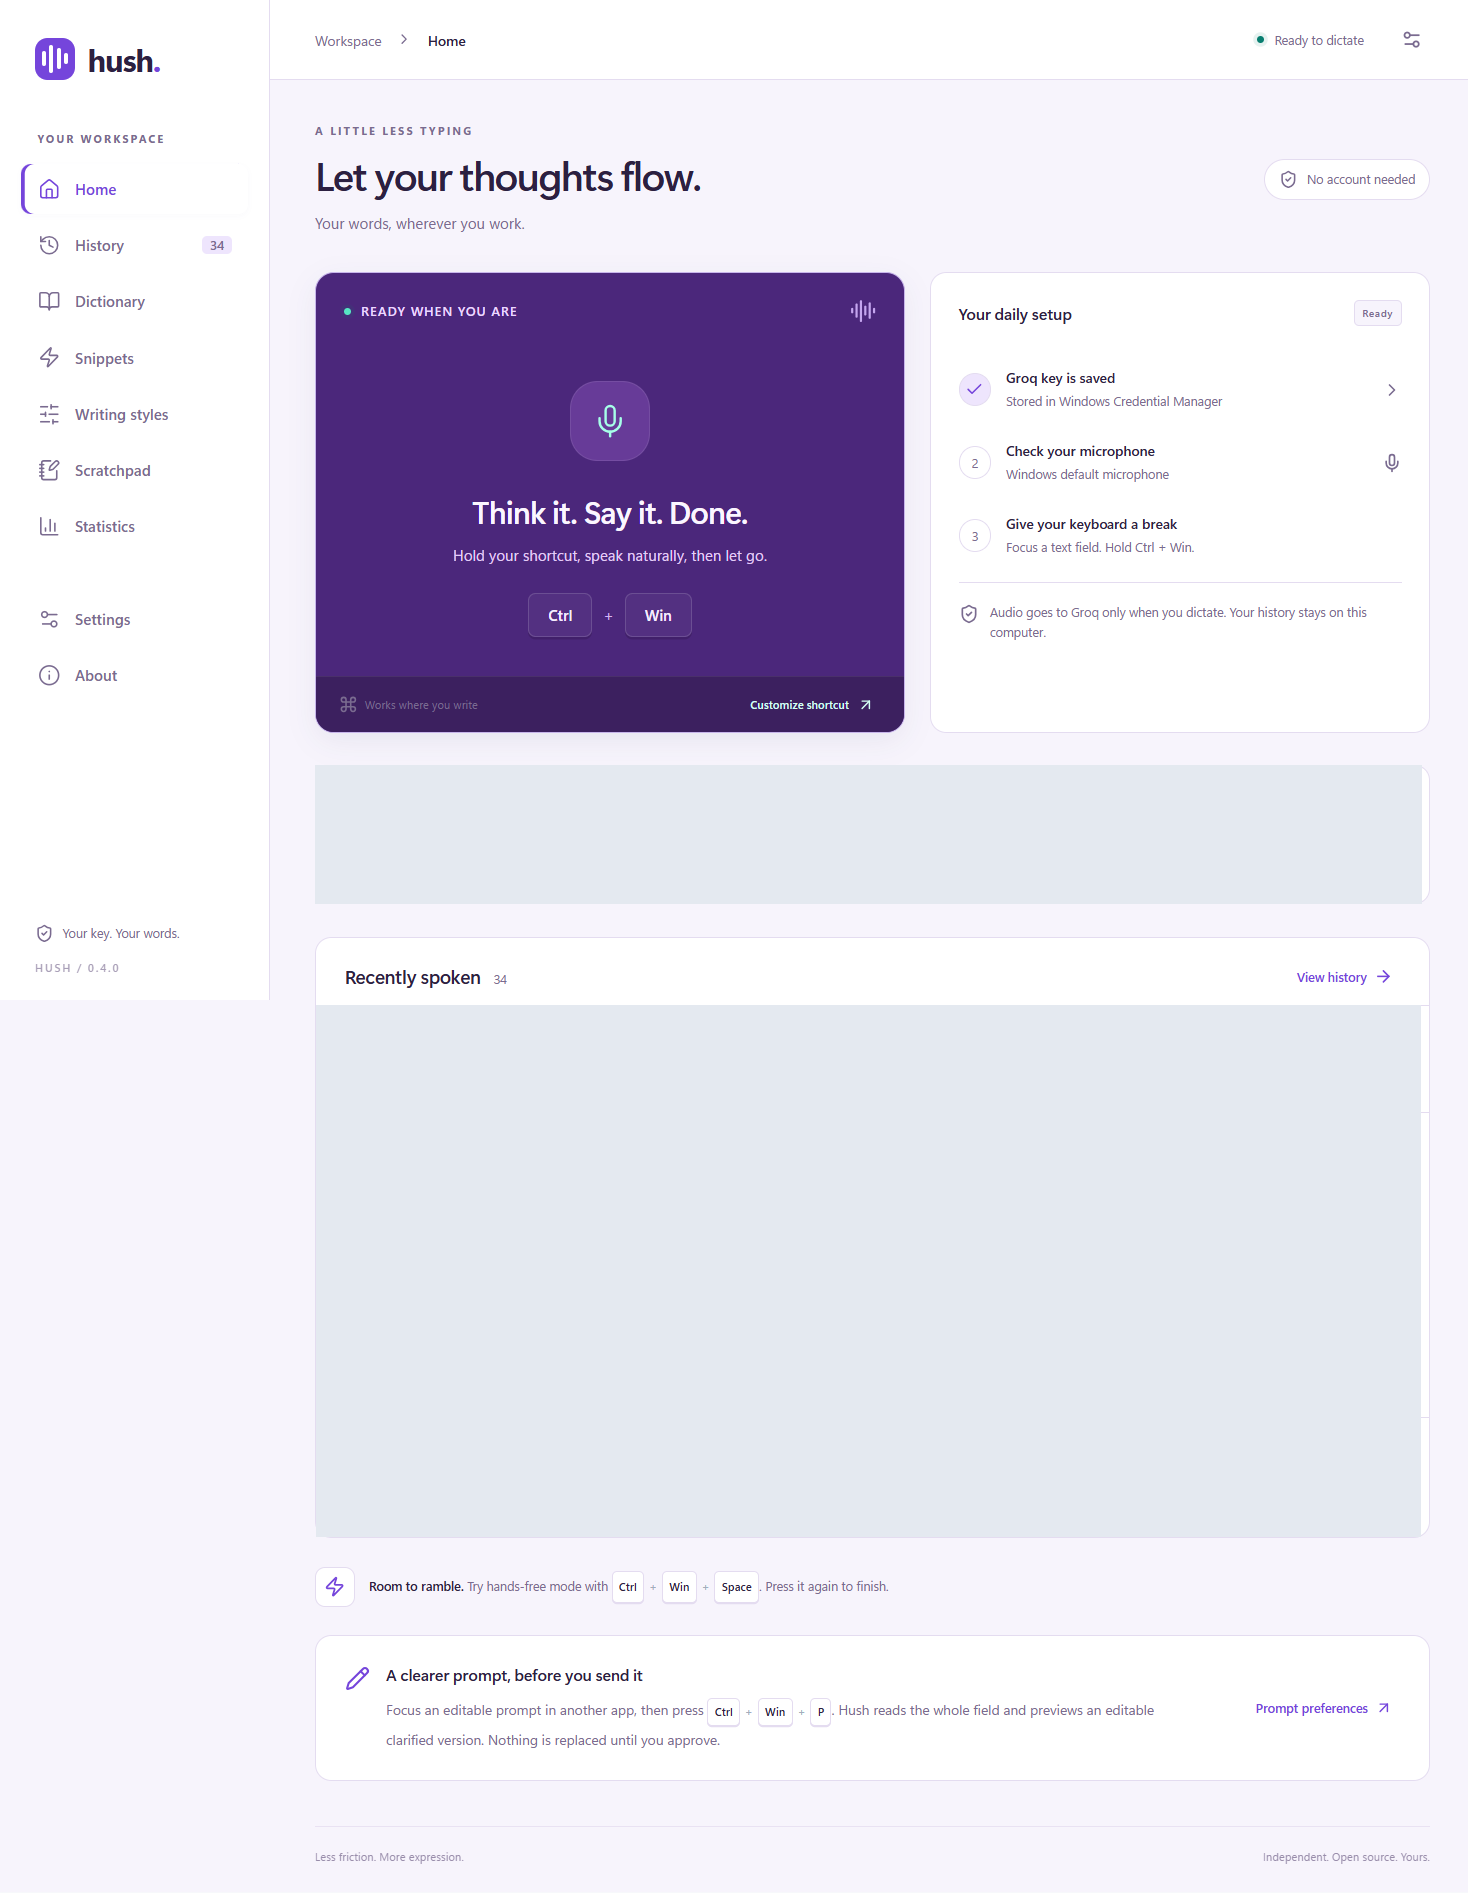
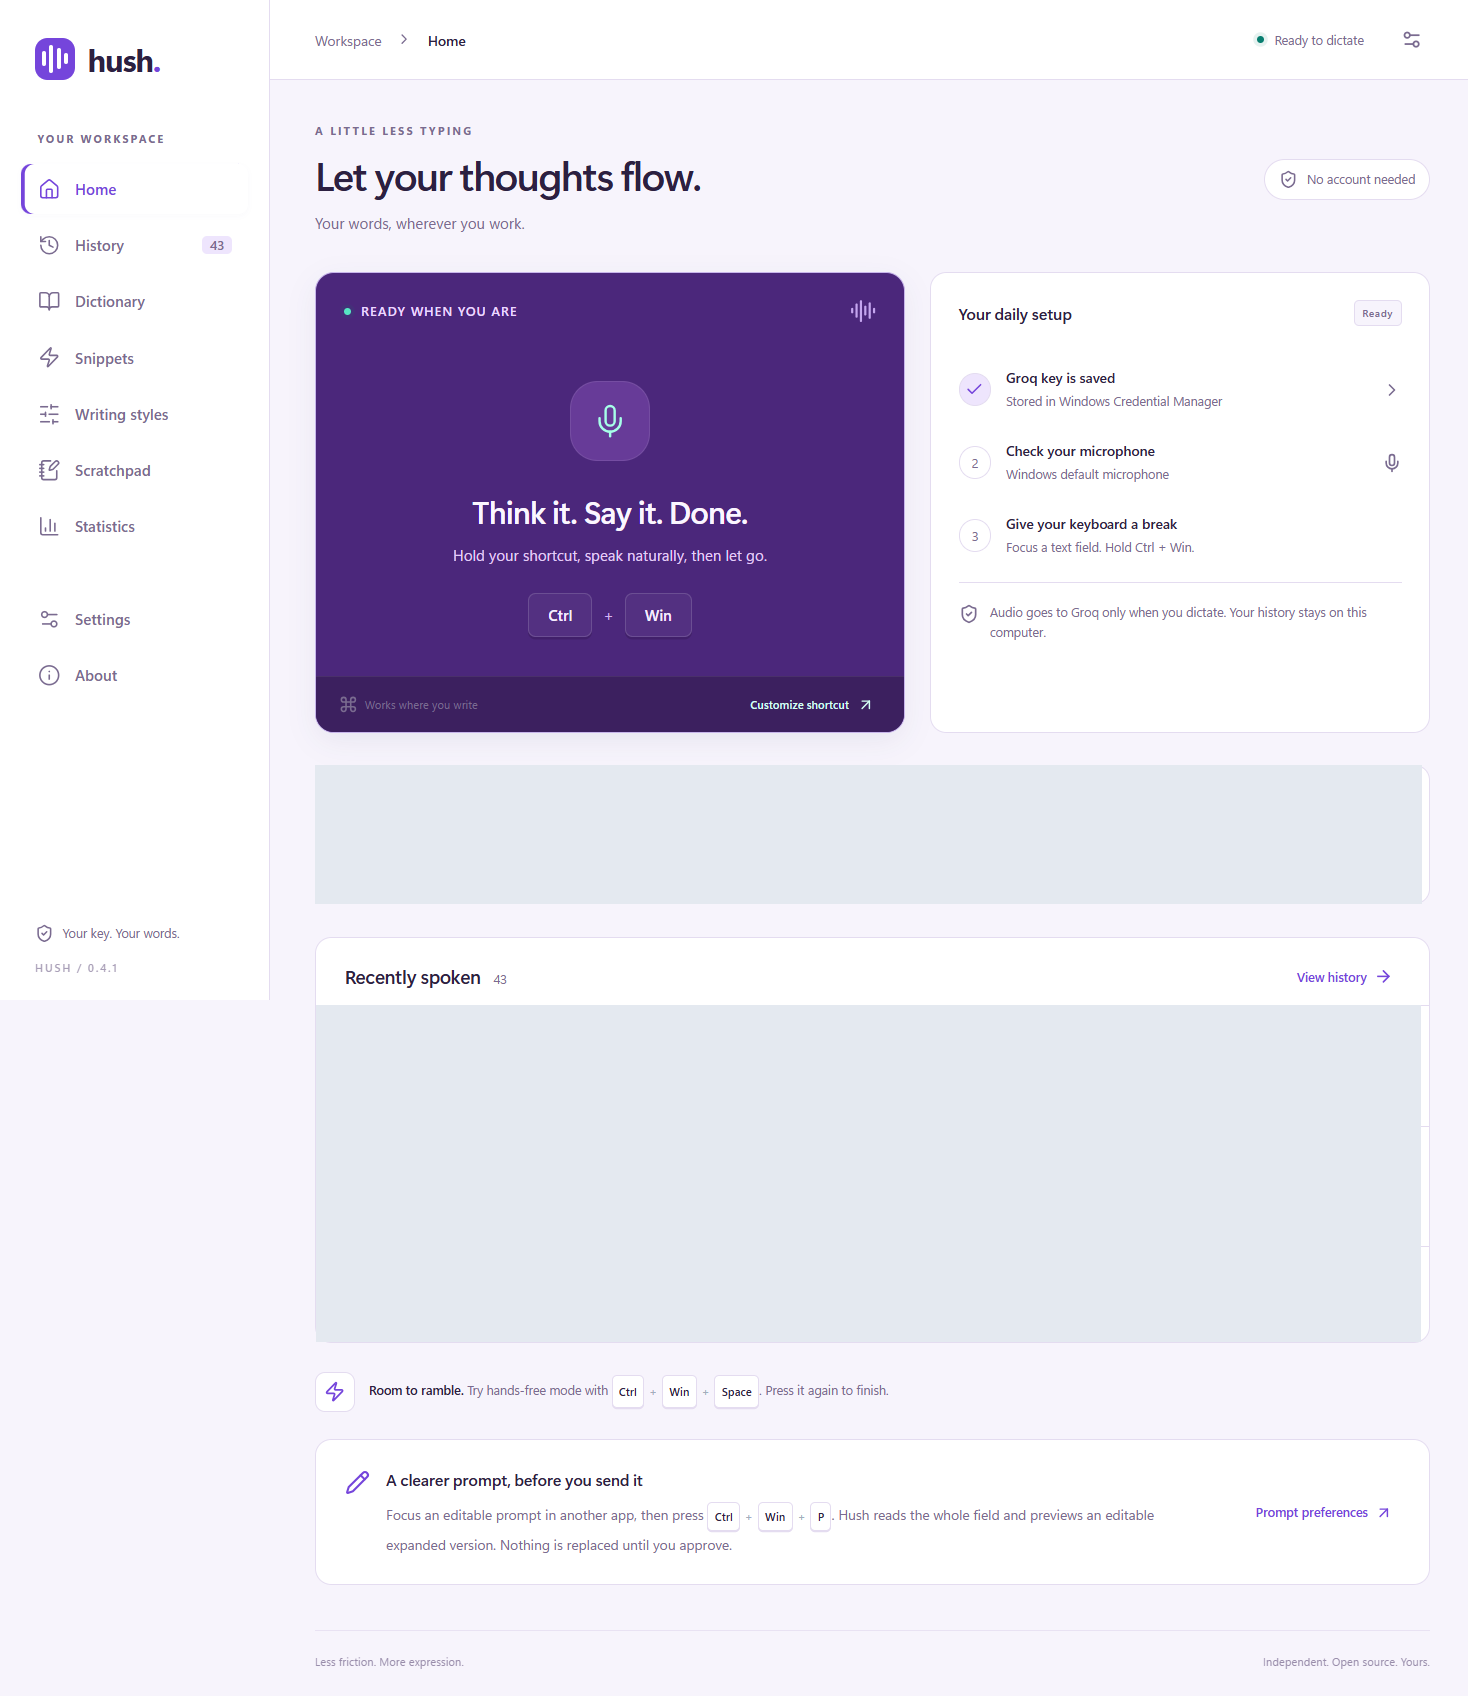
docs: record verified clipboard publication fix and 0.4.1 packages [skip ci]

diff --git a/docs/QA.md b/docs/QA.md
@@ -4,7 +4,9 @@
 
 The side timer shared a left-aligned drawing helper with the bottom layout. It now uses centered text inside the side timer bounds. Paste invalidation also counted accessibility focus events from unrelated background windows; those are now filtered by the foreground root. Clipboard sequence is captured after publication closes, with an additional owner check before paste/restoration. Protected-field, original field/caret identity, user-input, cancellation and terminal safeguards remain in place.
 
-Focused checks passed: 21 native unit tests (6 interactive tests explicitly ignored), all-target Clippy with warnings denied, frontend compilation/build and 10 frontend tests. Full-suite, packaged and hosted results will be recorded after execution. These unit checks do not establish successful insertion in every application.
+Checks passed: 96 Rust tests (16 interactive/device/provider tests explicitly ignored), all-target Clippy with warnings denied, frontend compilation/build and 10 frontend tests. Real native overlay nonactivation, compact controls and side-timer pixels passed and were inspected. A guarded real Windows clipboard probe measured sequence 5428 before CloseClipboard and 5431 afterward, reproducing why the old pre-close equality check rejected Hush's own publication. The original eight supported clipboard formats were restored; no clipboard contents were logged. Newer-copy ownership/sequence guards and background-focus filtering have regression coverage.
+
+The packaged native runtime passed the existing settings, microphone cancellation/normal Stop, rapid startup retry, saved-key preservation and dashboard close/reopen checks. Hosted Windows CI passed for `64627fd`, including all frontend/browser/Rust checks, real offline speech, installer and portable packaging: [run](https://github.com/chahatesh/Hushline/actions/runs/39701385137). The clipboard handoff is reproduced and corrected, but uninterrupted live Groq-to-Notepad/browser acceptance and broad application compatibility remain unverified. No public Release is published. [Component evidence](verification/update-0.4.1.json), [packaged checks](verification/desktop-smoke-0.4.1.json), [hosted checks](verification/ci-0.4.1.json).
 
 ## 0.4.0 current verification
 
@@ -220,3 +222,5 @@ Hosted Windows CI passed for implementation commit `392b3b9`, including formatti
 The optimized **7,947,264-byte** executable and **2,871,792-byte** installer built successfully, and the portable ZIP was generated. The packaged app passed real native IPC checks for all three styles and AI frequencies, preparation/cue and prompt-action preferences, preserved existing credentials, dictionary persistence, three rapid abandoned startups, microphone cancellation, normal Stop with silence rejection and no false audio-loss warning, metadata-only diagnostics, backup exclusion, and dashboard close/reopen. This test sent no microphone audio to a provider and created no transcript history. The observed heading time was **6,115 ms**, including test-only CDP setup; this is not a pure cold-start benchmark. The guarded per-user silent installation, installed background launch and uninstallation passed, retained the profile, and preserved unrelated legacy Hush registration/shortcuts. The interactive installer wizard and upgrade paths remain unverified.
 
 Hosted Windows CI passed for implementation commit `83e9267`, including lint, formatting, all Rust/frontend/browser tests, the real offline CPU speech fixture, installer packaging, portable ZIP and artifact upload: [run](https://github.com/chahatesh/Hushline/actions/runs/39684208860), [saved steps](verification/ci-0.4.0.json). The release verifier correctly rejected the incomplete live acceptance evidence. No public Release/tag was created. Reports: [packaged app](verification/desktop-smoke-0.4.0.json), [installer](verification/installer-test-0.4.0.json), [background measurements](verification/performance-0.4.0.json).
+
+The 2,871,957-byte 0.4.1 installer passed guarded per-user installation, installed background launch, dependency notice checks, clean uninstallation, profile retention and preservation of unrelated legacy Hush registration/shortcuts. The corrected workspace app was reopened and its running version verified as 0.4.1. No new performance or live provider latency claim is made for this hotfix. [Installer result](verification/installer-test-0.4.1.json), [artifact hashes](verification/artifacts-0.4.1.json).

diff --git a/README.md b/README.md
@@ -5,7 +5,7 @@
 
 Hush is an independent, open-source Windows dictation application built with Rust, Tauri 2, and SolidJS. Hold a shortcut, say what you mean, and insert the result in the field where you were working. Choose Groq cloud recognition with your own API key, or download a local Whisper pack for offline dictation. Local automatic layout adds notes, bullets, and paragraphs without another AI call.
 
-**Version 0.4.0 is a pre-release, with live acceptance pending.** The native pipeline and desktop interface have code and automated coverage; uninterrupted live speech → Groq → insertion still needs acceptance verification. The recording-ready sound, revised startup/release behavior, and whole-field prompt editing need live Windows checks before they can be treated as complete. Earlier 0.3.3 measurements and native checks remain historical evidence, not 0.4.0 performance guarantees. See the exact feature and test status in [FEATURES](docs/FEATURES.md), [QA](docs/QA.md), and the [performance report](docs/PERFORMANCE.md). A public release is blocked until core acceptance checks pass.
+**Version 0.4.1 is a pre-release, with live acceptance pending.** The native pipeline and desktop interface have code and automated coverage; uninterrupted live speech → Groq → insertion still needs acceptance verification. The recording-ready sound, revised startup/release behavior, and whole-field prompt editing need live Windows checks before they can be treated as complete. Earlier 0.3.3 measurements and native checks remain historical evidence, not 0.4.1 performance guarantees. See the exact feature and test status in [FEATURES](docs/FEATURES.md), [QA](docs/QA.md), and the [performance report](docs/PERFORMANCE.md). A public release is blocked until core acceptance checks pass.
 
 Hush was formerly named Hushline. The existing repository URL, application identifier, database name, credential slot, startup entry and executable name are retained for compatibility; saved keys and preferences stay in place.
 
@@ -36,8 +36,8 @@ These are implemented code paths, not a blanket compatibility claim. Terminal au
 
 Source is available at [chahatesh/Hush](https://github.com/chahatesh/Hushline). No public GitHub Release is available yet; acceptance verification remains required. The installer uses a unique Windows registration and “Hush Dictation” shortcuts to avoid overwriting other apps named Hush. Earlier Hushline installations may be removed normally after testing Hush; keep app data when prompted. Locally built artifacts, when generated, are in:
 
-- `src-tauri/target/release/bundle/nsis/Hush_0.4.0_x64-setup.exe` — per-user installer with shortcuts and uninstaller.
-- `artifacts/Hush_0.4.0_x64_portable.zip` — executable plus license/readme. This uses the same Windows app-data settings; it is portable as a binary, not a fully isolated profile.
+- `src-tauri/target/release/bundle/nsis/Hush_0.4.1_x64-setup.exe` — per-user installer with shortcuts and uninstaller.
+- `artifacts/Hush_0.4.1_x64_portable.zip` — executable plus license/readme. This uses the same Windows app-data settings; it is portable as a binary, not a fully isolated profile.
 
 The installer is unsigned unless a maintainer signs it with their own certificate. It requires no administrator permissions for ordinary per-user use. WebView2 installation may be required. Ordinary updates retain app-data settings. Local history and the Groq key may remain after uninstall so an update/reinstall does not unexpectedly erase them; remove the key, clear history, and delete saved audio in the app before uninstalling if you want them deleted. Remove the remaining app-data directory yourself for complete removal. Startup is opt-in under Settings; no service is installed.
 

diff --git a/docs/PUBLISHING.md b/docs/PUBLISHING.md
@@ -16,13 +16,13 @@ Use your own configured signing identity if signing is enabled. No fabricated si
 
 Run the complete real Windows/Groq acceptance protocol in QA.md. Record actual evidence in release-verification.json; do not mark unexecuted checks as passing. Run checks and build on a clean second Windows machine. Sign installers only with an authorized certificate.
 
-For 0.4.0, also verify the abandoned-hold/startup-ready sound, dark preparation state, release-to-insertion reliability, Casual/Standard/Formal formatting, correction/list examples, and whole-field prompt Clarify/Expand with edited preview, unchanged-target replacement, changed-target refusal, protected-field refusal, cancellation, and timeout. The prompt's 32 KB input/100 KB output limits and transient no-history behavior must remain intact. Browser tests and HTTP fixtures do not substitute for those live checks.
+For 0.4.1, also verify the abandoned-hold/startup-ready sound, dark preparation state, release-to-insertion reliability, Casual/Standard/Formal formatting, correction/list examples, and whole-field prompt Clarify/Expand with edited preview, unchanged-target replacement, changed-target refusal, protected-field refusal, cancellation, and timeout. The prompt's 32 KB input/100 KB output limits and transient no-history behavior must remain intact. Browser tests and HTTP fixtures do not substitute for those live checks.
 
 The release workflow blocks incomplete acceptance evidence. After acceptance passes, tag the verified revision and push the tag; the workflow builds artifacts and prepares a draft release for review. No unverified public release should be published.
 
 ```powershell
 node scripts/verify-release.mjs
-git tag -a v0.4.0 -m "Hush 0.4.0"
+git tag -a v0.4.1 -m "Hush 0.4.1"
 git push origin main
-git push origin v0.4.0
+git push origin v0.4.1
 ```
